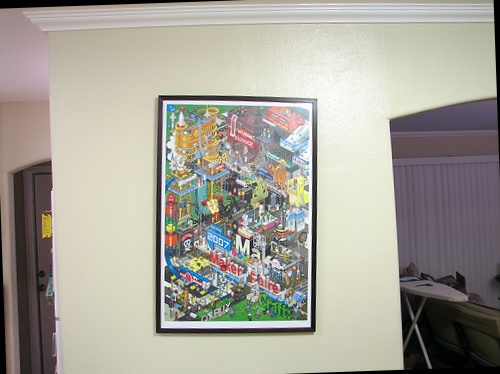
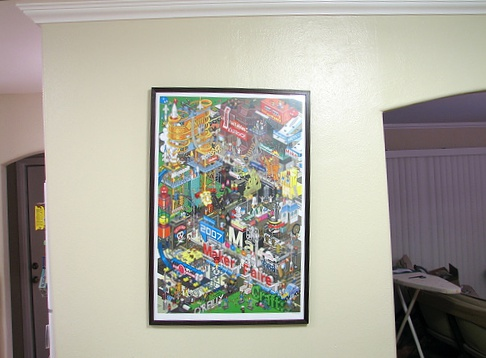
Cropping implemented!

diff --git a/parallel.py b/parallel.py
@@ -37,7 +37,15 @@ def calc_cropped_bounds(w, h, angle):
         cos_2a = cos_a * cos_a - sin_a * sin_a
         wr, hr = (w * cos_a - h * sin_a) / cos_2a, (h * cos_a - w * sin_a) / cos_2a
 
-    return np.array([int(wr), int(hr)])
+    return wr, hr
+
+# Crops an image about the center point to the new width and height
+def crop_about_center(img, new_w, new_h):
+    diff_x = int(new_w) / 2
+    diff_y = int(new_h) / 2
+    c_y, c_x = np.array(img.shape[:2]) / 2
+    return img[c_y - diff_y:c_y + diff_y, c_x - diff_x:c_x + diff_x]
+
 
 # Returns tuples of indexes of parallel lines
 def find_parallel_lines(lines):
@@ -90,18 +98,6 @@ def convert_to_rotation_angle(line_angle):
 
     else:
         return line_angle
-    #  angle = 2 * np.pi - line_angle
-    #  if line_angle < 0.25 * np.pi:
-        #  pass
-    #  elif line_angle < 0.75 * np.pi:
-        #  angle = 0.5 * np.pi - line_angle
-    #  elif line_angle < 1.25 * np.pi:
-        #  angle = np.pi - line_angle
-    #  elif line_angle < 1.75 * np.pi:
-        #  angle = 1.5 * np.pi - line_angle
-
-    #  #  Always return positive angle
-    #  return angle if angle > 0 else angle + 2 * np.pi
 
 # Draws a line on img given r and theta in polar
 # Computes two points in (x, y) and passes them to cv2.line
@@ -149,7 +145,7 @@ rot_angle = convert_to_rotation_angle(likely_angle)
 
 # Print this just for info
 print "Angle count:\t" + str(angle_count)
-print "In degrees:\t" + str(math.degrees(rot_angle))
+print "Rotation angle:\t" + str(math.degrees(rot_angle))
 
 # Write rotated image
 rotated_img = rotate_img(input_img, math.degrees(rot_angle))
@@ -159,7 +155,9 @@ cv2.imwrite("output.jpg", rotated_img)
 #  print str(np.array(input_img.shape))
 #  print str(np.array(input_img.shape)[0:2])
 height, width = input_img.shape[:2]
-diff_y, diff_x = calc_cropped_bounds(width, height, rot_angle) / 2
-c_y, c_x = np.array(rotated_img.shape[:2]) / 2
-print str(c_x) + "," + str(diff_x) + "," + str(c_y) + "," + str(diff_y)
-cropped_img = rotated_img[c_y - diff_y:c_y + diff_y, c_x - diff_x:c_x + diff_x]
+new_width, new_height = calc_cropped_bounds(width, height, rot_angle)
+cropped_img = crop_about_center(rotated_img, new_width, new_height)
+
+print "Old size:\t" + str(width) + "x" + str(height)
+print "New size:\t" + str(int(new_width)) + "x" + str(int(new_height))
+cv2.imwrite("cropped.jpg", cropped_img)
